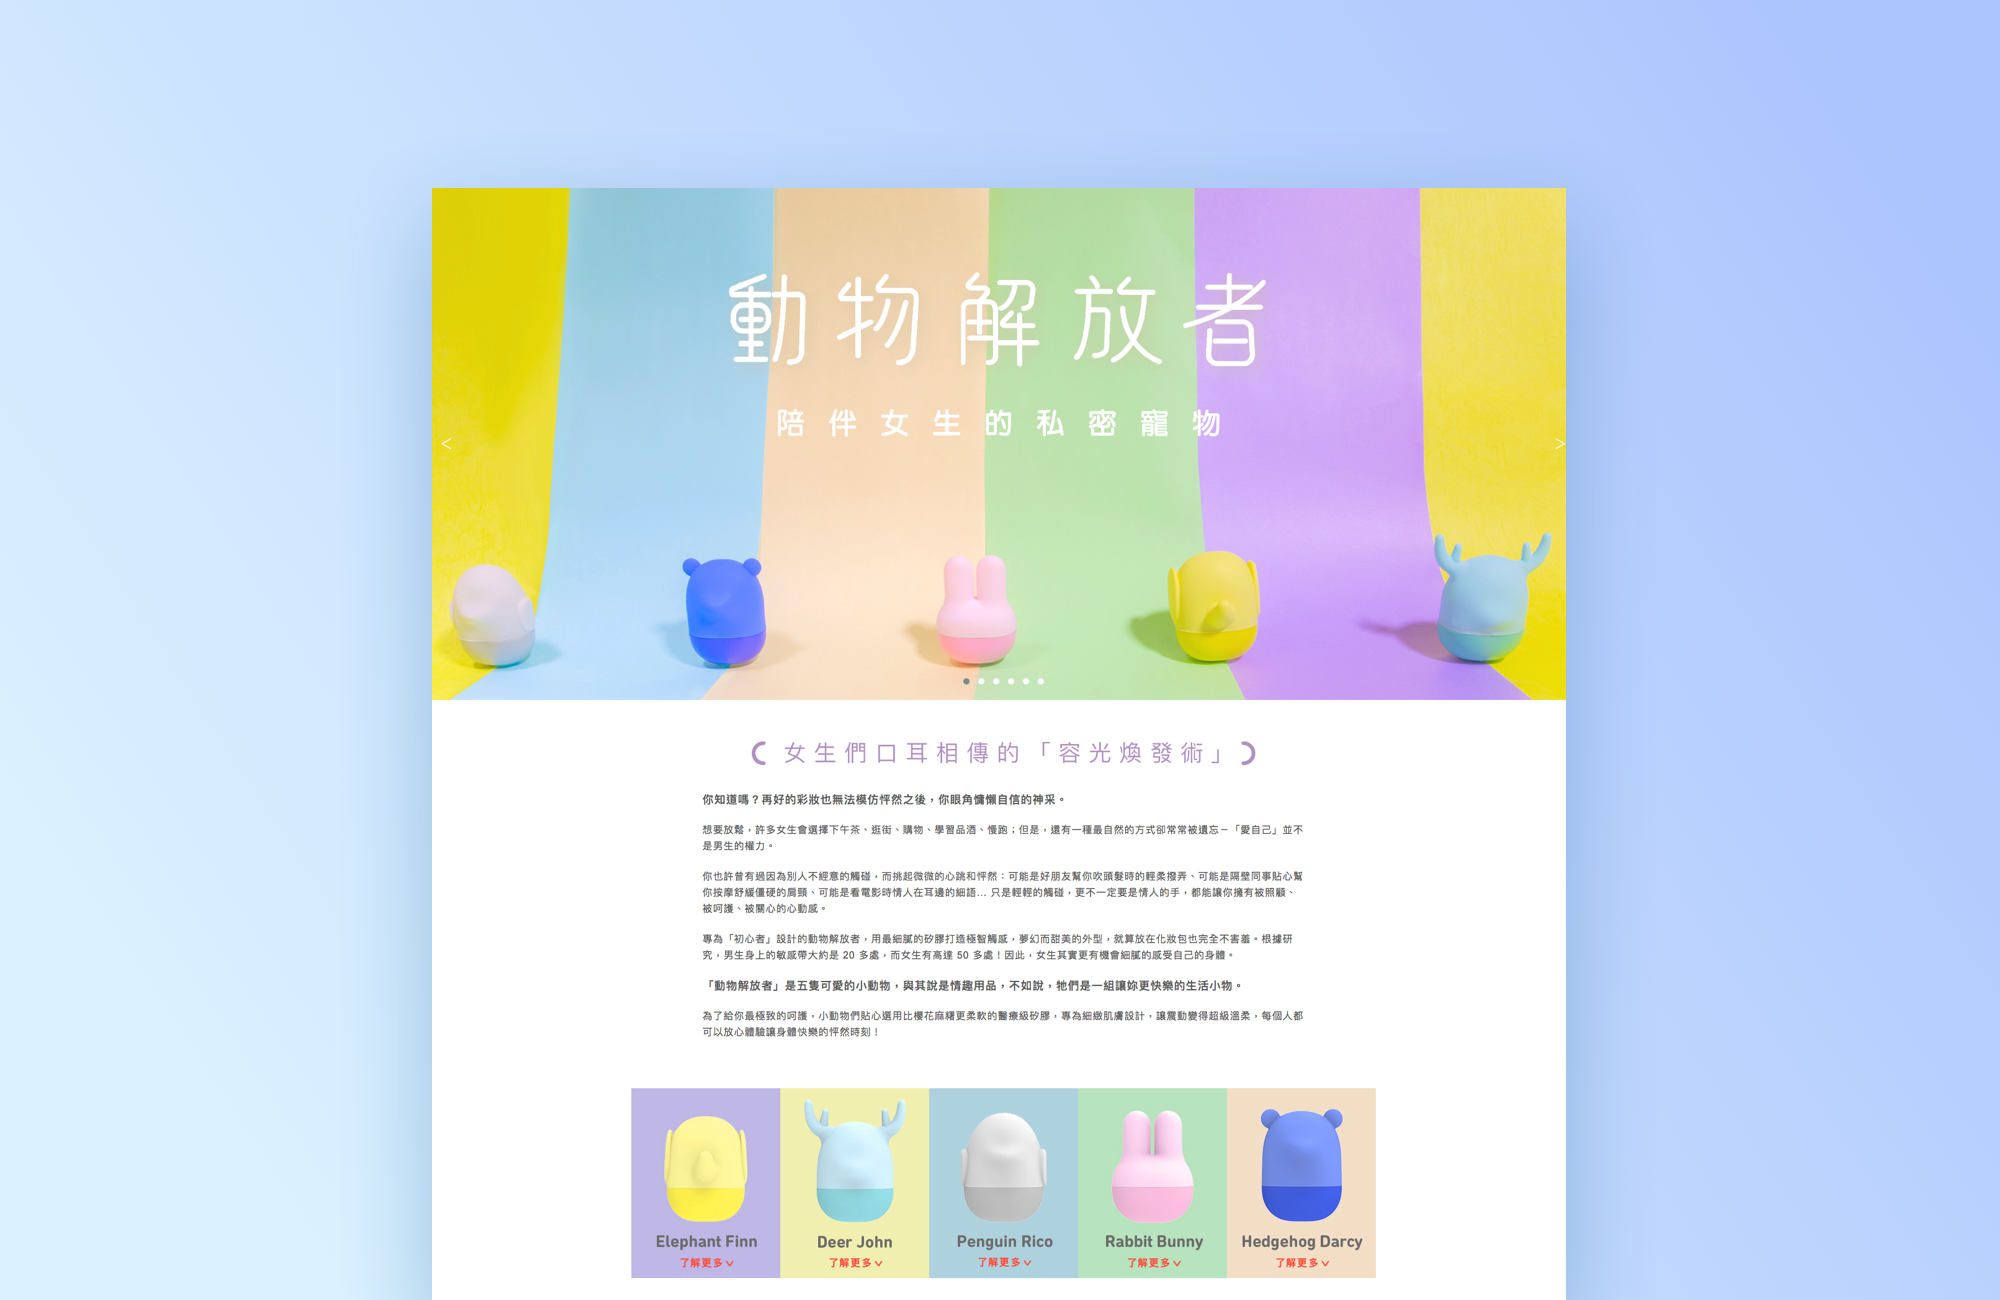
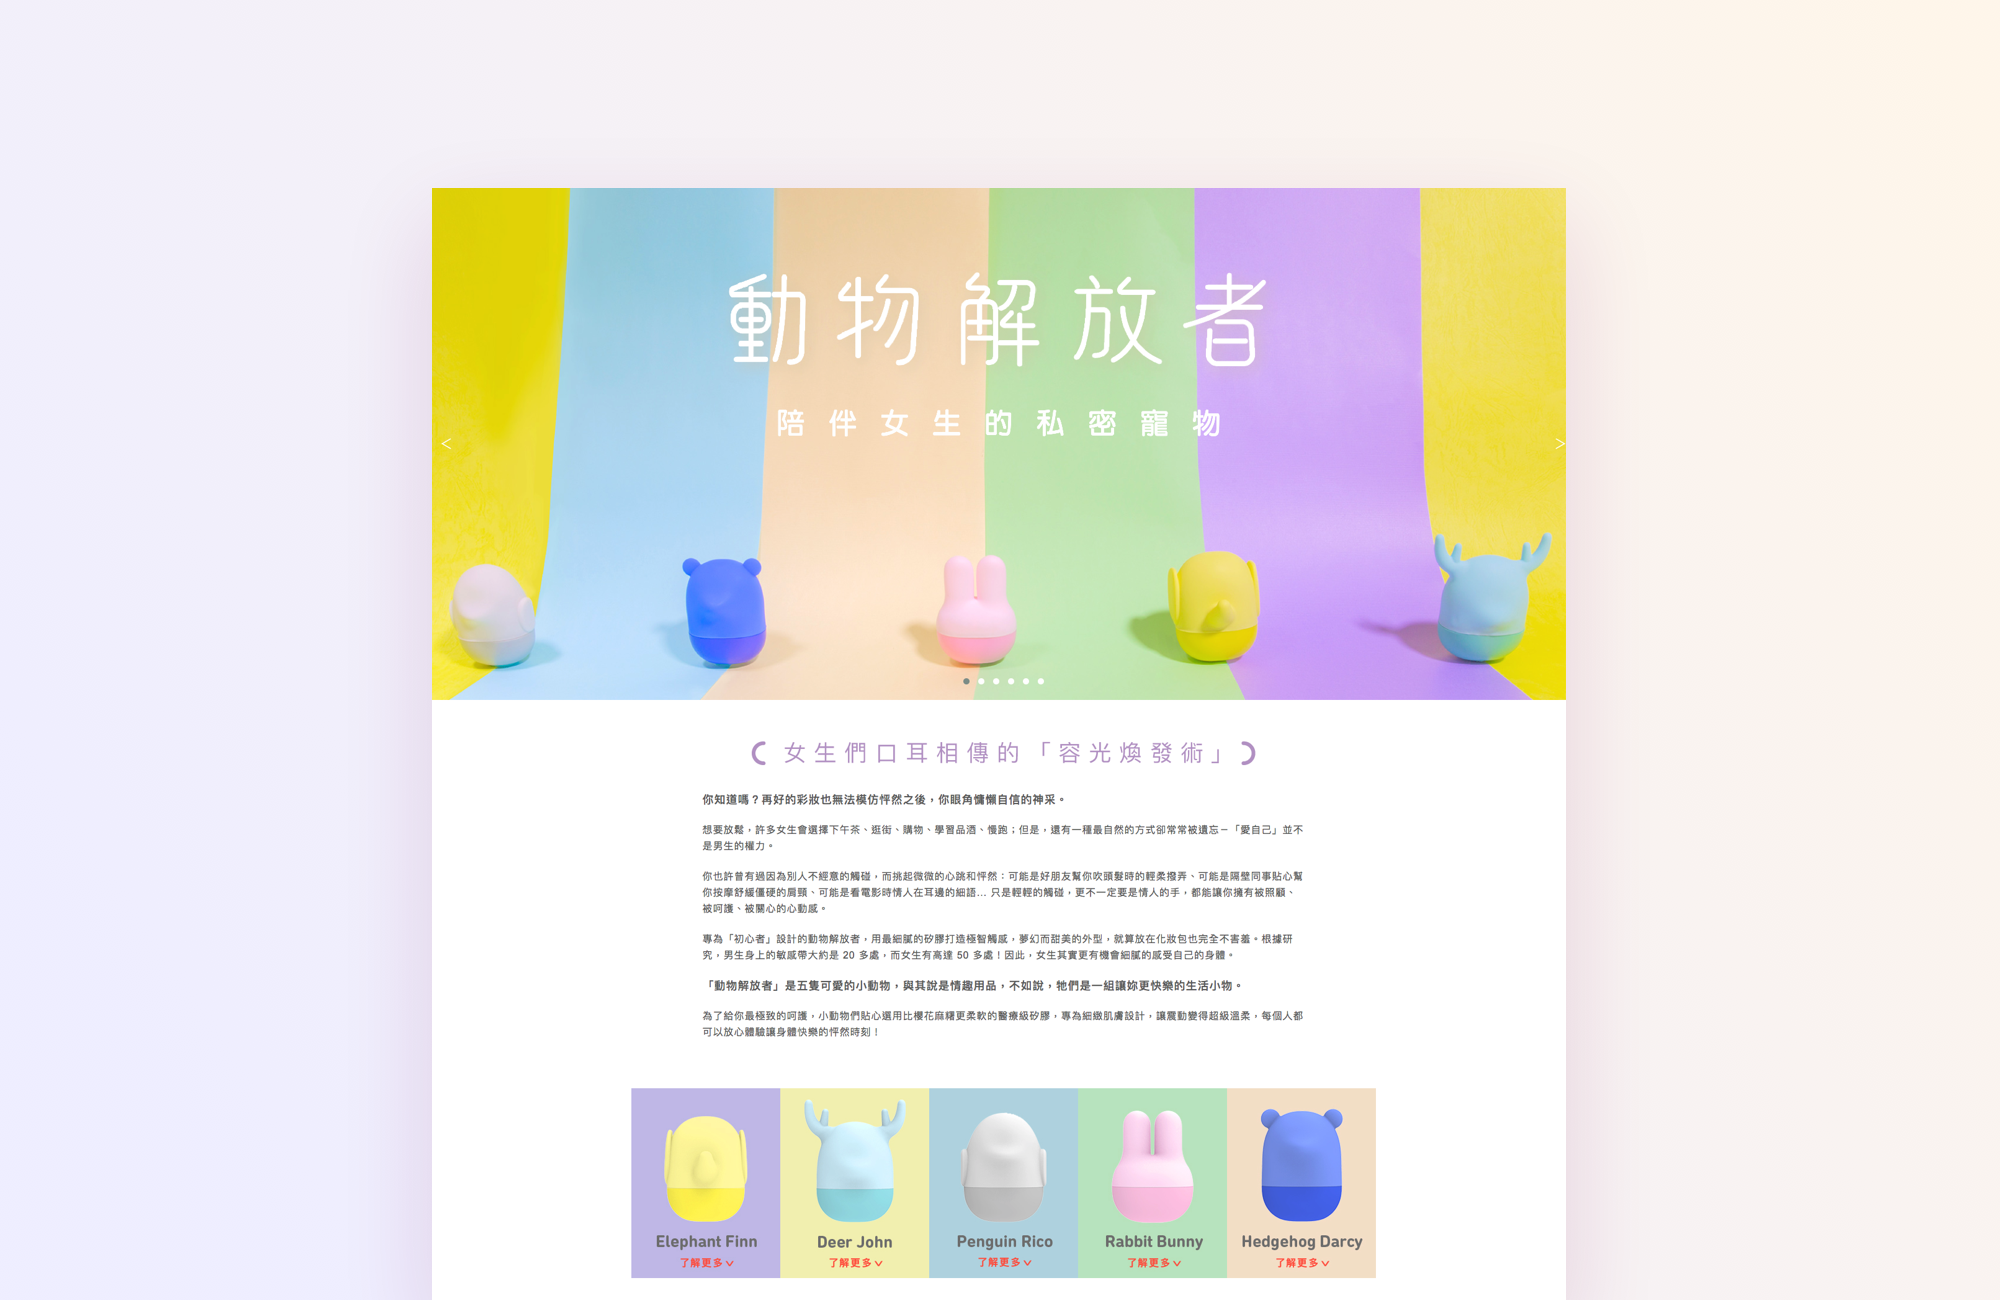
改css+html字型但有問題，求助

diff --git a/public/index.html b/public/index.html
@@ -14,6 +14,8 @@
   <link href="/assets/img/common/favicon.jpg" rel="shortcut icon">
   <link rel="stylesheet" href="/assets/css/main.css">
   <link rel="stylesheet" href="https://maxcdn.bootstrapcdn.com/font-awesome/4.5.0/css/font-awesome.min.css">
+  <link rel="stylesheet" href="/assets/css/_font.css" type="text/css">
+  <link href="https://fonts.googleapis.com/css?family=Open+Sans:400,600,700|Lato:400,700,900|Nunito+Sans:300,400,600,700" rel="stylesheet">
 </head>
 <script src="/assets/js/vendor/font.js"></script>
 <body>
@@ -50,15 +52,11 @@
       <img src="/assets/img/main/jf.jpg" alt="">
     </div>
     <div class="text">
-      <h3>Design is not only about solving problems, but also about discovering them.</h3>
       <p>
-       Born and raised in Taiwan, I am a current master student in Human Centered Design and Engineering (HCDE) at University of Washington.
+       After working as a Project Manager for two years in the crowdfunding and e-commerce industry, I am a current master student in Human Centered Design and Engineering (HCDE) at University of Washington.
       </p>
       <p> 
-        Prier to HCDE, I worked as a Project Manager for two years in the crowdfunding and e-commerce industry. I value empathy in crafting designs that speak to the audience, and my work experience allows me to always keep business value in mind while designing for users.
-      </p>
-      <p>
-        I have developed a multidisciplinary skill set in design, management and social science. I am dedicated to understanding users’ unspoken need, define problems, and driving impact by transforming ideas into reality.
+        I value empathy in crafting designs that speak to the audience, and my work experience allows me to always keep business value in mind while designing for users. I have developed a multidisciplinary skill set in design, management and social science. I am dedicated to understanding users’ unspoken need, define problems, and driving impact by transforming ideas into reality.
       </p>
     </div>
   </div>

diff --git a/public/assets/scss/custom_style/_variables.scss b/public/assets/scss/custom_style/_variables.scss
@@ -32,9 +32,9 @@ $nav-zindex: 30;
 $popup-zindex: 31;
 
 /// font-family
-$p100: Karla-Ultralight, Open Sans, sans-serif, Lato;
-$p200: Karla-Thin, Open Sans, sans-serif, Lato;
-$p300: Karla-Light, Open Sans, sans-serif, Lato;
-$p400: Karla-Regular, Open Sans, sans-serif, Lato;
-$p500: Karla-Medium, Open Sans, sans-serif, Lato;
-$p600: Karla-Medium, Open Sans, sans-serif, Lato;
+$p100: 'Open Sans', sans-serif;'Lato', sans-serif; 'Nunito Sans', sans-serif;
+$p200: 'Open Sans'-Thin,'Lato', sans-serif; 'Nunito Sans', sans-serif;
+$p300: 'Open Sans'-Light,'Lato', sans-serif; 'Nunito Sans', sans-serif;
+$p400: 'Open Sans', sans-serif;'Lato', sans-serif; 'Nunito Sans', sans-serif;
+$p500: 'Open Sans'-Medium,'Lato', sans-serif; 'Nunito Sans', sans-serif;
+$p600: 'Open Sans'-Medium,'Lato', sans-serif; 'Nunito Sans', sans-serif;

diff --git a/public/assets/scss/main.scss b/public/assets/scss/main.scss
@@ -32,7 +32,7 @@
 	}
 	p {
 		font-size: 16px;
-		font-family: 'Karla';
+		font-family: 'Open Sans', sans-serif;
 		color: rgba(255,255,255, .79);
 		margin-top: 20px;
 		letter-spacing: 1px;
